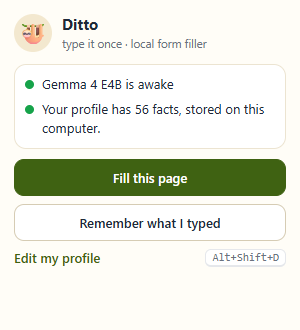
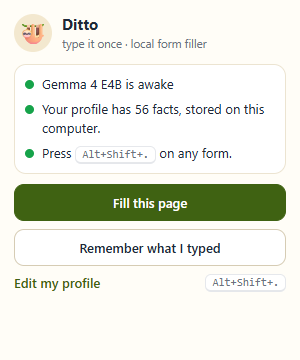
Fix keyboard shortcut silently missing when another extension owns it
Chrome skips an extension's suggested shortcut if another extension already
uses it (Dark Reader owns Alt+Shift+D), leaving Ditto with no shortcut and no
warning. Ditto now:
- suggests Alt+Shift+. instead, which far fewer extensions claim
- reads the shortcut it actually got via chrome.commands.getAll()
- explains a missing shortcut in the popup, the profile page and the toolbar
  tooltip, with a link to chrome://extensions/shortcuts
- tests both cases in CI with a stand-in extension that owns the key

diff --git a/extension/background.js b/extension/background.js
@@ -1,6 +1,6 @@
 /*
  * Ditto background service worker.
- * - Injects the content scripts only when you ask (toolbar button, Alt+Shift+D, or right-click menu).
+ * - Injects the content scripts only when you ask (toolbar button, keyboard shortcut, or right-click menu).
  * - Talks to Ollama on this computer. Nothing else on the network is ever contacted.
  */
 /* global importScripts */
@@ -13,6 +13,26 @@ const DEFAULT_SETTINGS = { ollamaUrl: 'http://127.0.0.1:11434', model: '', numCt
 const CONTENT_FILES = ['lib/text.js', 'content/extract.js', 'content/fill.js', 'content/panel.js', 'content/main.js'];
 const KEEP_ALIVE = '30m';
 const ORIGIN_RULE_ID = 1;
+const FILL_COMMAND = 'fill-form';
+
+// ---------- keyboard shortcut ----------
+// Chrome silently skips a suggested shortcut that another extension already uses, so Ditto checks
+// what it actually got and tells you when it has none.
+function suggestedShortcut() {
+  const cmd = (chrome.runtime.getManifest().commands || {})[FILL_COMMAND];
+  return (cmd && cmd.suggested_key && cmd.suggested_key.default) || '';
+}
+
+async function shortcutInfo() {
+  const all = await chrome.commands.getAll();
+  const cmd = all.find((c) => c.name === FILL_COMMAND);
+  return { shortcut: (cmd && cmd.shortcut) || '', suggested: suggestedShortcut() };
+}
+
+async function refreshActionTitle() {
+  const { shortcut } = await shortcutInfo();
+  await chrome.action.setTitle({ title: shortcut ? `Ditto: fill this form (${T.prettyShortcut(shortcut)})` : 'Ditto: fill this form (no keyboard shortcut set yet)' });
+}
 
 // ---------- storage ----------
 async function getSettings() {
@@ -380,6 +400,8 @@ async function status() {
   const settings = await getSettings();
   const profile = await getProfile();
   const out = { facts: profile.facts.length, ollama: false, model: '', modelName: '', loaded: false, models: [], url: settings.ollamaUrl };
+  Object.assign(out, await shortcutInfo());
+  refreshActionTitle();
   try {
     const tags = await ollamaJson(settings, '/api/tags', null, 4000);
     out.ollama = true;
@@ -403,7 +425,7 @@ async function warmup() {
 }
 
 // Hooks for the automated eval (eval/run-eval.mjs drives the real extension through these).
-self.__ditto = { runOnTab, warmup, status };
+self.__ditto = { runOnTab, warmup, status, shortcutInfo };
 
 chrome.runtime.onMessage.addListener((msg, sender, sendResponse) => {
   const reply = (p) =>
@@ -425,6 +447,12 @@ chrome.runtime.onMessage.addListener((msg, sender, sendResponse) => {
     case 'open-options':
       chrome.runtime.openOptionsPage();
       return false;
+    case 'shortcut':
+      reply(shortcutInfo());
+      return true;
+    case 'open-shortcuts':
+      reply(chrome.tabs.create({ url: 'chrome://extensions/shortcuts' }).then(() => ({})));
+      return true;
     case 'import': {
       const release = keepAwake();
       reply(
@@ -445,7 +473,7 @@ chrome.runtime.onMessage.addListener((msg, sender, sendResponse) => {
 });
 
 chrome.commands.onCommand.addListener((command, tab) => {
-  if (command !== 'fill-form' || !tab) return;
+  if (command !== FILL_COMMAND || !tab) return;
   runOnTab(tab.id, 'fill').catch((e) => flagError(tab.id, e));
 });
 
@@ -454,8 +482,11 @@ chrome.runtime.onInstalled.addListener(async (details) => {
     chrome.contextMenus.create({ id: 'ditto-fill', title: 'Fill this form with Ditto', contexts: ['page', 'editable'] });
     chrome.contextMenus.create({ id: 'ditto-learn', title: 'Ditto: remember what I typed', contexts: ['page', 'editable'] });
   });
+  refreshActionTitle();
   if (details.reason === 'install') chrome.runtime.openOptionsPage();
 });
+
+chrome.runtime.onStartup.addListener(refreshActionTitle);
 
 chrome.contextMenus.onClicked.addListener((info, tab) => {
   if (!tab) return;

diff --git a/site/index.html b/site/index.html
@@ -66,7 +66,7 @@
         <li>
           <b>Teach it once, lazily.</b> Paste your resume or an old form into Ditto's profile page and Gemma pulls out the facts. Or just fill one form by hand and click <i>Remember what I typed</i>.
         </li>
-        <li><b>Press <span class="kbd">Alt+Shift+D</span> on any form.</b> Gemma reads the labels and sections, and fields fill one by one, at sloth speed, while you sip your chai.</li>
+        <li><b>Press <span class="kbd">Alt+Shift+.</span> on any form</b> (or click the Ditto button). Gemma reads the labels and sections, and fields fill one by one, at sloth speed, while you sip your chai.</li>
         <li><b>Glance at the colours, then submit it yourself.</b> <span class="g">Green</span> = from your profile. <span class="a">Amber</span> = please check. <span class="s">Grey</span> = needs you.</li>
         <li><b>It gets lazier over time.</b> Every answer you type teaches it, and a form it has seen before fills in under a second.</li>
       </ol>
@@ -126,9 +126,12 @@
           <li>Download <a href="https://github.com/dragon-slayer27/ditto/releases/latest">ditto-extension.zip</a> and unzip it (or clone the repo).</li>
           <li>Open <code>chrome://extensions</code>, switch on <b>Developer mode</b>, click <b>Load unpacked</b> and pick the unzipped folder.</li>
           <li>On the profile page that opens, paste your resume or load the demo person, Meera.</li>
-          <li>Open any form (or the <a href="forms/">demo forms</a>) and press <span class="kbd">Alt+Shift+D</span>.</li>
+          <li>Open any form (or the <a href="forms/">demo forms</a>) and press <span class="kbd">Alt+Shift+.</span> (Alt, Shift and the full-stop key), or click the Ditto toolbar button.</li>
         </ol>
-        <p class="small">Works in Chrome, Edge, Brave and other Chromium browsers. No Ollama settings to change: Ditto handles the connection itself.</p>
+        <p class="small">
+          Works in Chrome, Edge, Brave and other Chromium browsers. No Ollama settings to change: Ditto handles the connection itself.
+          If another extension already uses <span class="kbd">Alt+Shift+.</span>, Chrome leaves Ditto without a shortcut; Ditto's popup will say so and link you to the page where you can pick one.
+        </p>
       </div>
     </section>
 

diff --git a/extension/options/options.js b/extension/options/options.js
@@ -18,8 +18,36 @@ async function load() {
   $('model').dataset.wanted = (settings && settings.model) || '';
   $('memory-count').textContent = `It currently remembers ${Object.keys(memory || {}).length} page(s).`;
   renderFacts();
+  refreshShortcut();
   checkConnection();
 }
+
+// ---------- keyboard shortcut ----------
+let shortcut = '';
+
+async function refreshShortcut() {
+  const s = await chrome.runtime.sendMessage({ cmd: 'shortcut' });
+  if (!s || !s.ok) return;
+  const { ui } = await chrome.storage.local.get('ui');
+  shortcut = T.prettyShortcut(s.shortcut);
+  $('key-banner').hidden = !!s.shortcut || !!(ui && ui.keyBannerDismissed);
+  $('key-suggested').textContent = T.prettyShortcut(s.suggested);
+  $('key-status').innerHTML = s.shortcut
+    ? `Fill the form on any page with <span class="kbd">${esc(shortcut)}</span>.`
+    : 'Not set yet. Until you choose one, use the Ditto toolbar button or right-click &rarr; <i>Fill this form with Ditto</i>.';
+  $('key-change').textContent = s.shortcut ? 'Change shortcut' : 'Choose a shortcut';
+  document.querySelectorAll('.how-to-fill').forEach((n) => {
+    n.innerHTML = s.shortcut ? `press <span class="kbd">${esc(shortcut)}</span>` : 'click the Ditto toolbar button';
+  });
+}
+
+document.querySelectorAll('[data-open-shortcuts]').forEach((b) => b.addEventListener('click', () => chrome.runtime.sendMessage({ cmd: 'open-shortcuts' })));
+$('key-dismiss').addEventListener('click', async () => {
+  const { ui } = await chrome.storage.local.get('ui');
+  await chrome.storage.local.set({ ui: { ...(ui || {}), keyBannerDismissed: true } });
+  $('key-banner').hidden = true;
+});
+window.addEventListener('focus', refreshShortcut);
 
 function scheduleSave() {
   $('save-status').textContent = 'Saving...';
@@ -146,7 +174,7 @@ $('load-demo').addEventListener('click', async () => {
   profile = { version: 1, rev: (profile.rev || 0) + 1, vrev: (profile.vrev || 0) + 1, facts: demo.facts };
   await chrome.storage.local.set({ profile });
   renderFacts();
-  $('save-status').textContent = 'Loaded Meera. Now open a demo form and press Alt+Shift+D.';
+  $('save-status').textContent = `Loaded Meera. Now open a demo form and ${shortcut ? `press ${shortcut}` : 'click the Ditto toolbar button'}.`;
 });
 
 // ---------- settings ----------

diff --git a/extension/options/options.html b/extension/options/options.html
@@ -16,6 +16,18 @@
     </header>
 
     <main>
+      <section class="card notice" id="key-banner" hidden>
+        <h2>One more step: pick a keyboard shortcut</h2>
+        <p>
+          Ditto has no keyboard shortcut yet. That usually means another extension already uses <span class="kbd" id="key-suggested">Alt+Shift+.</span>, so Chrome quietly left Ditto without one.
+          Choose any combination you like, or skip this: the Ditto toolbar button and right-click &rarr; <i>Fill this form with Ditto</i> always work.
+        </p>
+        <div class="row">
+          <button class="btn primary" data-open-shortcuts>Choose a shortcut</button>
+          <button class="btn" id="key-dismiss">I'll use the toolbar button</button>
+        </div>
+      </section>
+
       <section class="card" id="teach">
         <h2>Teach Ditto in one go</h2>
         <p class="muted">Paste a resume, an old form you filled, or just write a few lines about yourself. Gemma pulls out the facts, and you choose what to keep.</p>
@@ -48,11 +60,17 @@
 
       <section class="card">
         <h2>Try it with a demo person</h2>
-        <p class="muted">Load <b>Meera Iyer</b>, a fictional person with about 50 facts, then open the demo forms (a job application, a bank KYC form, a clinic intake, a rental application and a hackathon sign-up) and press <span class="kbd">Alt+Shift+D</span>.</p>
+        <p class="muted">Load <b>Meera Iyer</b>, a fictional person with about 50 facts, then open the demo forms (a job application, a bank KYC form, a clinic intake, a rental application and a hackathon sign-up) and <span class="how-to-fill">click the Ditto toolbar button</span>.</p>
         <div class="row">
           <button id="load-demo" class="btn">Load Meera (replaces your facts)</button>
           <a class="btn link" href="https://dragon-slayer27.github.io/ditto/forms/" target="_blank" rel="noopener">Open the demo forms</a>
         </div>
+      </section>
+
+      <section class="card">
+        <h2>Keyboard shortcut</h2>
+        <p class="muted" id="key-status">Checking...</p>
+        <div class="row"><button class="btn" data-open-shortcuts id="key-change">Change shortcut</button></div>
       </section>
 
       <section class="card">

diff --git a/extension/popup/popup.js b/extension/popup/popup.js
@@ -1,8 +1,30 @@
+/* global Ditto */
 const $ = (id) => document.getElementById(id);
+const pretty = (s) => Ditto.text.prettyShortcut(s);
+
+function esc(s) {
+  return String(s == null ? '' : s).replace(/[&<>"']/g, (c) => ({ '&': '&amp;', '<': '&lt;', '>': '&gt;', '"': '&quot;', "'": '&#39;' })[c]);
+}
 
 function setRow(dotId, textId, kind, html) {
   $(dotId).className = `dot ${kind}`;
   $(textId).innerHTML = html;
+}
+
+function renderShortcut(s) {
+  if (s.shortcut) {
+    setRow('key-dot', 'key-text', 'ok', `Press <span class="kbd">${esc(pretty(s.shortcut))}</span> on any form.`);
+    $('key-kbd').textContent = pretty(s.shortcut);
+    $('key-kbd').hidden = false;
+    return;
+  }
+  const why = s.suggested ? ` (another extension probably uses <span class="kbd">${esc(pretty(s.suggested))}</span>)` : '';
+  setRow('key-dot', 'key-text', 'warn', `No keyboard shortcut yet${why}. <a href="#" id="set-key">Choose one</a>`);
+  $('set-key').addEventListener('click', async (e) => {
+    e.preventDefault();
+    await chrome.runtime.sendMessage({ cmd: 'open-shortcuts' });
+    window.close();
+  });
 }
 
 function showError(html) {
@@ -40,6 +62,7 @@ async function init() {
     showError('Ditto could not start. Try reloading the extension.');
     return;
   }
+  renderShortcut(s);
 
   if (!s.ollama) {
     setRow('ollama-dot', 'ollama-text', 'bad', 'Ollama is not running. Open the Ollama app or run <code>ollama serve</code>.');

diff --git a/extension/popup/popup.html b/extension/popup/popup.html
@@ -17,6 +17,7 @@
     <section id="state" class="state">
       <div class="row"><span class="dot" id="ollama-dot"></span><span id="ollama-text">Checking Ollama...</span></div>
       <div class="row"><span class="dot" id="profile-dot"></span><span id="profile-text">Loading profile...</span></div>
+      <div class="row"><span class="dot" id="key-dot"></span><span id="key-text">Checking the keyboard shortcut...</span></div>
     </section>
 
     <div id="error" class="error" hidden></div>
@@ -26,8 +27,9 @@
 
     <footer>
       <a href="#" id="open-options">Edit my profile</a>
-      <span class="kbd" title="Keyboard shortcut">Alt+Shift+D</span>
+      <span class="kbd" id="key-kbd" title="Keyboard shortcut" hidden></span>
     </footer>
+    <script src="../lib/text.js"></script>
     <script src="popup.js"></script>
   </body>
 </html>

diff --git a/site/forms/index.html b/site/forms/index.html
@@ -24,7 +24,7 @@
     <section class="wrap" style="padding-top: 20px">
       <h1 style="font-size: 38px">Demo forms</h1>
       <p class="lead">
-        Five fake forms that behave like real ones. With Ditto installed, open its profile page, click <b>Load Meera</b> (a fictional person), then open a form and press <span class="kbd">Alt+Shift+D</span>.
+        Five fake forms that behave like real ones. With Ditto installed, open its profile page, click <b>Load Meera</b> (a fictional person), then open a form and press <span class="kbd">Alt+Shift+.</span> (or click the Ditto toolbar button).
         Nothing you type on these pages is sent anywhere.
       </p>
       <div class="grid">

diff --git a/extension/options/options.css b/extension/options/options.css
@@ -6,6 +6,8 @@ h1 { margin: 4px 0 4px; font-size: 24px; }
 .lead { margin: 0; color: #4b5563; max-width: 680px; }
 main { max-width: 860px; margin: 0 auto; padding: 8px 20px 60px; display: grid; gap: 16px; }
 .card { background: #fffdf7; border: 1px solid #e8e0cc; border-radius: 16px; padding: 18px 20px; }
+.card.notice { background: #fffbeb; border-color: #f59e0b; box-shadow: 0 0 0 3px rgba(245, 158, 11, .15); }
+.card.notice p { margin: 0; color: #78350f; }
 h2 { margin: 0 0 6px; font-size: 17px; }
 .muted { color: #6b7280; }
 .small { font-size: 12.5px; }

diff --git a/extension/lib/text.js b/extension/lib/text.js
@@ -248,6 +248,15 @@
     return '';
   }
 
+  // Chrome reports shortcuts like "Alt+Shift+Period"; show keys the way they're printed on the keyboard.
+  function prettyShortcut(s) {
+    const keys = { Period: '.', Comma: ',' };
+    return String(s || '')
+      .split('+')
+      .map((k) => keys[k] || k)
+      .join('+');
+  }
+
   const api = {
     MONTHS,
     cleanText,
@@ -266,6 +275,7 @@
     fnv1a,
     fieldSignature,
     skipReason,
+    prettyShortcut,
   };
 
   root.Ditto = root.Ditto || {};

diff --git a/README.md b/README.md
@@ -33,7 +33,7 @@ You *could* paste the form into a cloud chatbot along with your ID numbers, addr
 
 ```mermaid
 flowchart LR
-  A[You press Alt+Shift+D] --> B[Content script reads the form<br/>labels, sections, options, format hints]
+  A[You press Alt+Shift+.] --> B[Content script reads the form<br/>labels, sections, options, format hints]
   B --> C{Page memory<br/>seen this form?}
   C -- yes --> F
   C -- no --> D[Service worker asks Gemma 4 via Ollama<br/>JSON schema: one key per field id]
@@ -92,9 +92,11 @@ The same eval also runs in the cloud: the [Model eval workflow](https://github.c
 2. Get the extension: download `ditto-extension.zip` from the [latest release](https://github.com/dragon-slayer27/ditto/releases/latest) and unzip it, or clone this repo.
 3. Open `chrome://extensions`, switch on **Developer mode**, click **Load unpacked** and choose the `extension` folder.
 4. The profile page opens. Paste your resume (Gemma extracts the facts), add facts by hand, or click **Load Meera** to try the fictional demo person.
-5. Open any form, or the [demo forms](https://dragon-slayer27.github.io/ditto/forms/), and press **Alt+Shift+D** (or click the toolbar icon, or right-click > *Fill this form with Ditto*).
+5. Open any form, or the [demo forms](https://dragon-slayer27.github.io/ditto/forms/), and press **Alt+Shift+.** (Alt, Shift and the full-stop key). The toolbar icon and right-click > *Fill this form with Ditto* work too.
 
 You don't need to change any Ollama settings.
+
+**No shortcut?** Chrome quietly skips an extension's suggested shortcut when another extension already uses it. If that happens, Ditto's popup tells you, and its *Choose one* link opens `chrome://extensions/shortcuts`, where you can pick any combination. The toolbar icon and right-click menu work either way.
 
 ## Privacy and safety
 
@@ -109,6 +111,7 @@ npm install
 npm run setup:browsers         # Playwright's Chromium, stored in .cache/
 npm test                       # unit tests (no model needed)
 node eval/extract-check.mjs    # loads the extension, checks extraction on all demo forms
+node eval/shortcut-check.mjs   # keyboard shortcut, including when another extension owns it
 npm run eval                   # full 114-field eval against your local Ollama
 node eval/learn-demo.mjs       # the "remember what I typed" loop, end to end
 node eval/inspect-fields.mjs   # print what Ditto sees on each demo form
@@ -116,7 +119,7 @@ npm run serve                  # demo site on http://127.0.0.1:8787
 npm run pack                   # dist/ditto-extension.zip
 ```
 
-GitHub Actions run the unit tests and the extraction check on every push, deploy the site, attach the zip to tagged releases, and a manual **Model eval** workflow installs Ollama in the runner, pulls Gemma and runs the full 114-field eval in the cloud.
+GitHub Actions run the unit tests, the extraction check and the shortcut check on every push, deploy the site, attach the zip to tagged releases, and a manual **Model eval** workflow installs Ollama in the runner, pulls Gemma and runs the full 114-field eval in the cloud.
 
 ## Limitations
 

diff --git a/.github/release-notes.md b/.github/release-notes.md
@@ -4,6 +4,6 @@
 2. Download **ditto-extension.zip** below and unzip it.
 3. Open `chrome://extensions`, turn on **Developer mode**, click **Load unpacked** and choose the unzipped folder.
 4. On the profile page that opens, paste your resume (or load the fictional demo person, Meera).
-5. Open any form and press **Alt+Shift+D**.
+5. Open any form and press **Alt+Shift+.** (or click the Ditto toolbar button). If another extension already uses that combination, Ditto's popup links you to `chrome://extensions/shortcuts` to pick another.
 
 Everything runs on your computer. Ditto only talks to Ollama on `127.0.0.1`, never submits a form, and never ticks consent boxes.
